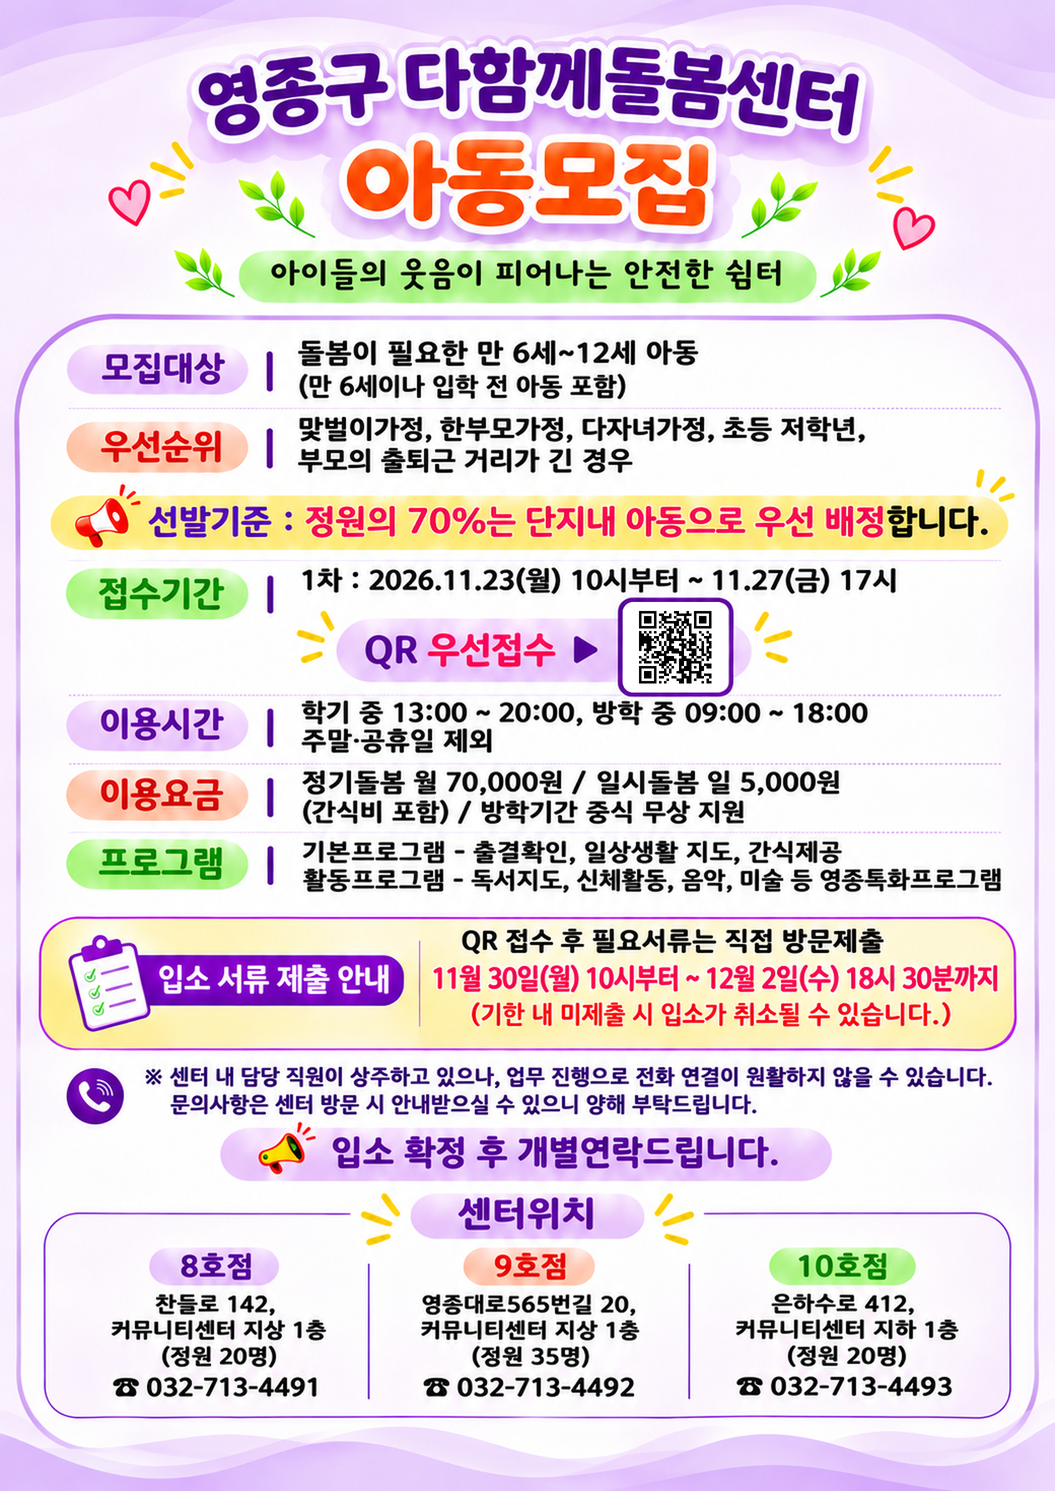
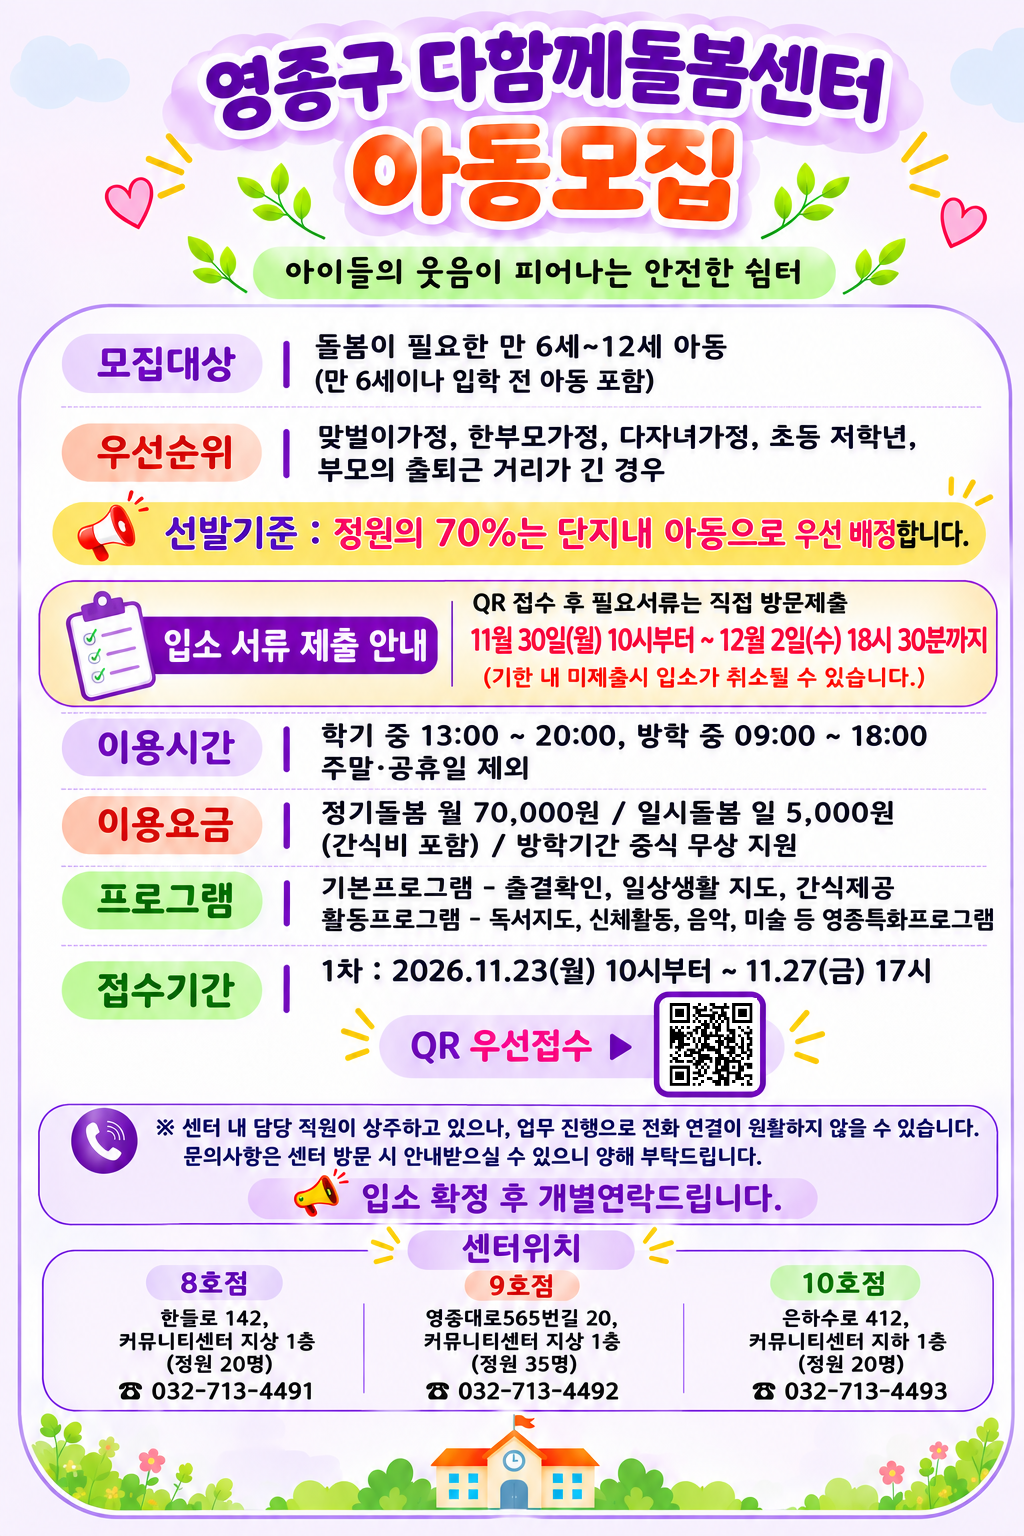
포스터를 최종판으로 교체(그림 속 QR 정상 확인), 서류 그림을 신청서류 안내(큐알) 한 장으로 교체

diff --git a/index.html b/index.html
@@ -55,7 +55,7 @@ h2.sec{font-size:19px;margin:6px 0 12px}
 </style></head><body><main><div class="hero"><h1>영종구 다함께돌봄센터</h1></div>
 <button type="button" class="flyerbtn" data-zoom="flyers/zoom/main.png" aria-label="홍보 전단지 크게 보기"><img class="flyer" src="flyers/main.png" alt="영종 다함께 돌봄센터 홍보 전단지"></button><p class="zoomhint">포스터를 누르면 크게 볼 수 있어요</p>
 <h2 class="sec">서류 확인</h2>
-<div class="docimg"><h3>1. 점수 확인 <span>이용아동 선정기준표</span></h3><p class="dnote">항목별 점수를 더해 총점을 확인해 보세요. 총점이 높은 순으로 선정합니다.</p><button type="button" class="flyerbtn" data-zoom="flyers/zoom/score.png" aria-label="이용아동 선정기준표 크게 보기"><img class="flyer" src="flyers/score.png" alt="이용아동 선정기준표" loading="lazy"></button><p class="zoomhint">그림을 누르면 크게 볼 수 있어요</p></div><div class="docimg"><h3>2. 입소 서류 확인 <span>신청서류 안내</span></h3><p class="dnote">필요한 서류를 확인하고, 아래 「입소 서류」 기간에 센터로 직접 방문해 제출해 주세요.</p><button type="button" class="flyerbtn" data-zoom="flyers/zoom/documents.png" aria-label="신청서류 안내 크게 보기"><img class="flyer" src="flyers/documents.png" alt="신청서류 안내" loading="lazy"></button><p class="zoomhint">그림을 누르면 크게 볼 수 있어요</p></div>
+<div class="docimg"><h3>신청서류 안내 <span>제출서류 · 선정기준표</span></h3><p class="dnote">아래쪽 선정기준표로 점수를 확인하고, 필요한 서류를 준비해 아래 「입소 서류」 기간에 센터로 직접 방문해 제출해 주세요.</p><button type="button" class="flyerbtn" data-zoom="flyers/zoom/guide.png" aria-label="제출서류 · 선정기준표 크게 보기"><img class="flyer" src="flyers/guide.png" alt="제출서류 · 선정기준표" loading="lazy"></button><p class="zoomhint">그림을 누르면 크게 볼 수 있어요</p></div>
 <h2 class="sec">모집 안내</h2>
 <div class="infobox"><div class="row"><div class="k">모집 대상</div><div class="v"><p>돌봄이 필요한 만 6세 ~ 12세 아동</p><p>(만 6세이나 입학 전 아동 포함)</p></div></div><div class="row"><div class="k">우선 순위</div><div class="v"><p>맞벌이가정, 한부모가정, 다자녀가정, 초등 저학년, 부모의 출퇴근 거리가 긴 경우</p><p>선발기준: 정원의 70%는 단지내 아동으로 우선 배정합니다.</p></div></div><div class="row"><div class="k">접수 기간</div><div class="v"><p>1차: 2026.11.23(월) 10시부터 ~ 11.27(금) 17시</p><p>QR 우선접수: 아래 센터 위치에서 다닐 호점의 「신청하고 싶어요」를 눌러 주세요.</p></div></div><div class="row"><div class="k">이용 시간</div><div class="v"><p>학기 중 13:00 ~ 20:00, 방학 중 09:00 ~ 18:00</p><p>주말·공휴일 제외</p></div></div><div class="row"><div class="k">이용 요금</div><div class="v"><p>정기돌봄 월 70,000원 / 일시돌봄 일 5,000원</p><p>(간식비 포함) / 방학기간 중식 무상 지원</p></div></div><div class="row"><div class="k">프로그램</div><div class="v"><p>기본프로그램: 출결확인, 일상생활 지도, 간식제공</p><p>활동프로그램: 독서지도, 신체활동, 음악, 미술 등 영종특화프로그램</p></div></div><div class="row"><div class="k">입소 서류</div><div class="v"><p>QR 접수 후 필요서류는 직접 방문제출</p><p>11월 30일(월) 10시부터 ~ 12월 2일(수) 18시 30분까지</p><p>(기한 내 미제출 시 입소가 취소될 수 있습니다.)</p><p>입소 확정 후 개별연락드립니다.</p></div></div><div class="row"><div class="k">문의</div><div class="v"><p>※ 센터 내 담당 직원이 상주하고 있으나, 업무 진행으로 전화 연결이 원활하지 않을 수 있습니다.</p><p>문의사항은 센터 방문 시 안내받으실 수 있으니 양해 부탁드립니다.</p></div></div></div>
 <h2 class="sec">센터 위치</h2>

diff --git a/build_site.py b/build_site.py
@@ -235,9 +235,9 @@ zv.addEventListener('pointerup',up);zv.addEventListener('pointercancel',up);
 </script>"""
 
 
-# readable text version of the poster table. Since 2026-11-19 (18:14 판) the poster is the 1055x1491 image the user
-# supplied (its drawn QR did not decode, so the real site QR was pasted into the box); flyers/zoom/main.png is
-# the same image at 2x. The hwpx in flyers/원본 is the older poster. Wording copied from the poster; do not edit content here.
+# readable text version of the poster table. Since 2026-11-20 the poster is 최종포스터.png (1024x1536) from the user's
+# desktop, used unchanged for flyers/main.png and flyers/zoom/main.png (its QR decodes to SITE, checked with OpenCV).
+# The hwpx in flyers/원본 is an older poster. Wording copied from the poster; do not edit content here.
 POSTER_INFO = [
     ('모집 대상', ['돌봄이 필요한 만 6세 ~ 12세 아동', '(만 6세이나 입학 전 아동 포함)']),
     ('우선 순위', ['맞벌이가정, 한부모가정, 다자녀가정, 초등 저학년, 부모의 출퇴근 거리가 긴 경우', '선발기준: 정원의 70%는 단지내 아동으로 우선 배정합니다.']),
@@ -261,12 +261,12 @@ LAND_CSS += """
 """
 
 # ---- documents shown as pictures like the poster (user 2026-11-20: 한글 파일 대신 이미지로) ----
-# flyers/score.png, flyers/documents.png = page copies (1240 px); flyers/zoom/*.png = 300 dpi renders by Hangul COM
-# (CreatePageImage) of 이용아동선정기준표.hwp and 영종다함께돌봄센터 신청서류.hwpx (both on the user's desktop 2026-11-19).
-# Order (user): 포스터 > 점수 확인(선정기준표) > 입소 서류 확인(신청서류 안내).
+# flyers/guide.png = page copy (1240 px); flyers/zoom/guide.png = 300 dpi render by Hangul COM (CreatePageImage) of
+# 영종다함께돌봄센터 신청서류 안내(큐알).hwpx (user's desktop 2026-11-20). That one page holds 신청서류 안내 and the
+# 선정기준표, so it replaced the two pictures (score.png, documents.png) used on 2026-11-20 morning.
 DOC_IMAGES = [
-    ('score.png', '1. 점수 확인', '이용아동 선정기준표', '항목별 점수를 더해 총점을 확인해 보세요. 총점이 높은 순으로 선정합니다.'),
-    ('documents.png', '2. 입소 서류 확인', '신청서류 안내', '필요한 서류를 확인하고, 아래 「입소 서류」 기간에 센터로 직접 방문해 제출해 주세요.'),
+    ('guide.png', '신청서류 안내', '제출서류 · 선정기준표',
+     '아래쪽 선정기준표로 점수를 확인하고, 필요한 서류를 준비해 아래 「입소 서류」 기간에 센터로 직접 방문해 제출해 주세요.'),
 ]
 docs_html = ''.join(
     f'<div class="docimg"><h3>{esc(step)} <span>{esc(title)}</span></h3><p class="dnote">{esc(note)}</p>'
